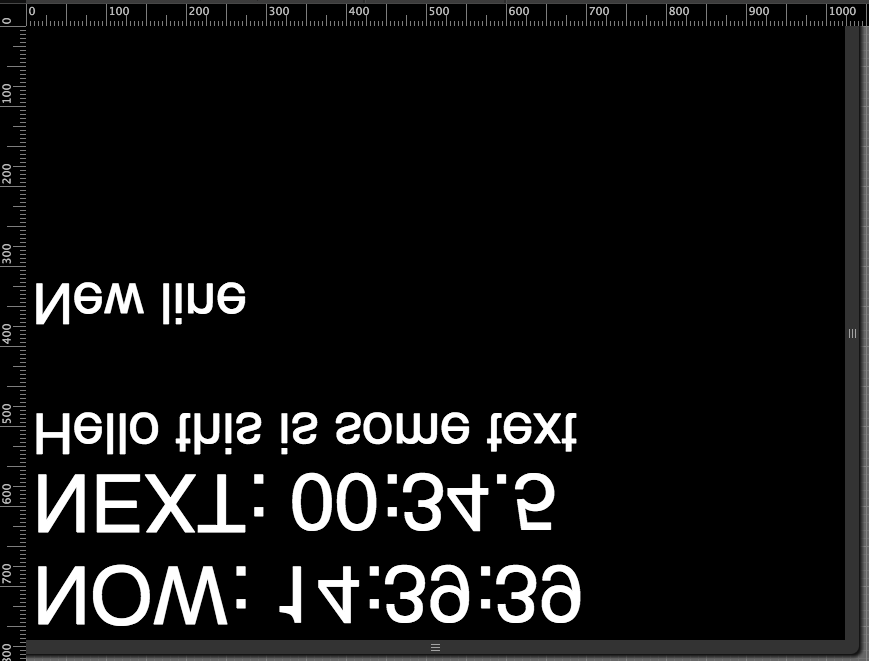
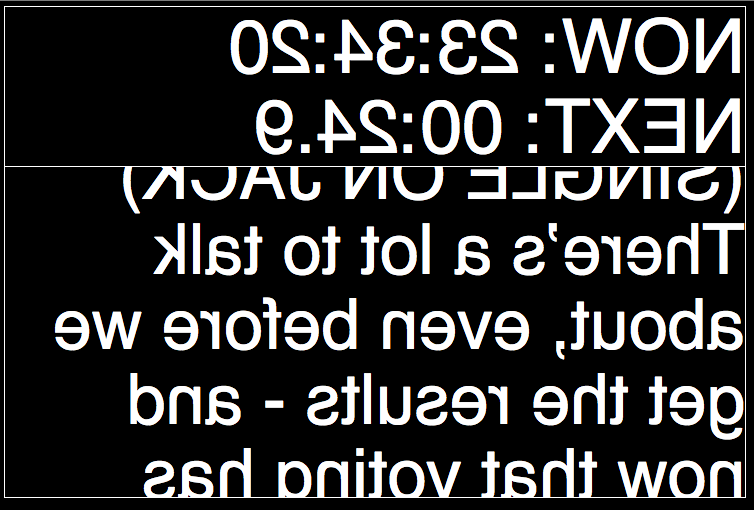
Dynamic host resolution and updated screenshots

diff --git a/app/public/stylesheets/reader.css b/app/public/stylesheets/reader.css
@@ -9,20 +9,27 @@ html, body {
     line-height: 75px;
     color: white;
     font-size: 70px;
-    top: 0px;
-    height: 270px;
-    width: 700px;
+    top: 165px;
+    height: 330px;
+    width: 740px;
     font-family: sans-serif;
     white-space: pre;
     white-space: pre-wrap;
     overflow: scroll;
+    border-color: white;
+    border-width: 1px;
+    border-style: solid;
 }
 #time {
     position: absolute;
     color: white;
-    font-size: 100px;
-    height: 200px;
-    top: 280px;
-    width: 700px;
+    font-size: 75px;
+    line-height: 80px;
+    height: 160px;
+    top: 5px;
+    width: 740px;
     font-family: sans-serif;
+    border-color: white;
+    border-width: 1px;
+    border-style: solid;
 }

diff --git a/app/public/js/socket-writer.js b/app/public/js/socket-writer.js
@@ -1,6 +1,6 @@
 $(function() {
     console.log('Establishing Socket Connection')
-    var socket = io.connect('http://localhost:3000');
+    var socket = io.connect(location.host);
 
     socket.on('currentContent', function (data) {
       $('#niks-text-box').val(data.content)

diff --git a/app/public/js/socket-reader.js b/app/public/js/socket-reader.js
@@ -1,6 +1,6 @@
 $(function() {
     console.log('Establishing Socket Connection')
-    var socket = io.connect('http://10.173.38.83:3000');
+    var socket = io.connect(location.host);
     socket.emit('requestData');
 
     socket.on('newContent', function (data) {

diff --git a/app/service/socketService.js b/app/service/socketService.js
@@ -4,7 +4,7 @@ module.exports = function(server) {
     var countdown = 0;
     var flipState = false;
     var scrollPosition = 0;
-    var scrollSpeed = 10;
+    var scrollSpeed = 20;
     var scrollAction;
     var savedCues = {};
 

diff --git a/app/public/stylesheets/writer.css b/app/public/stylesheets/writer.css
@@ -11,8 +11,8 @@
     color: white;
     font-size: 70px;
     top: 0px;
-    height: 270px;
-    width: 700px;
+    height: 330px;
+    width: 740px;
     font-family: sans-serif;
     white-space: pre;
     white-space: pre-wrap;
